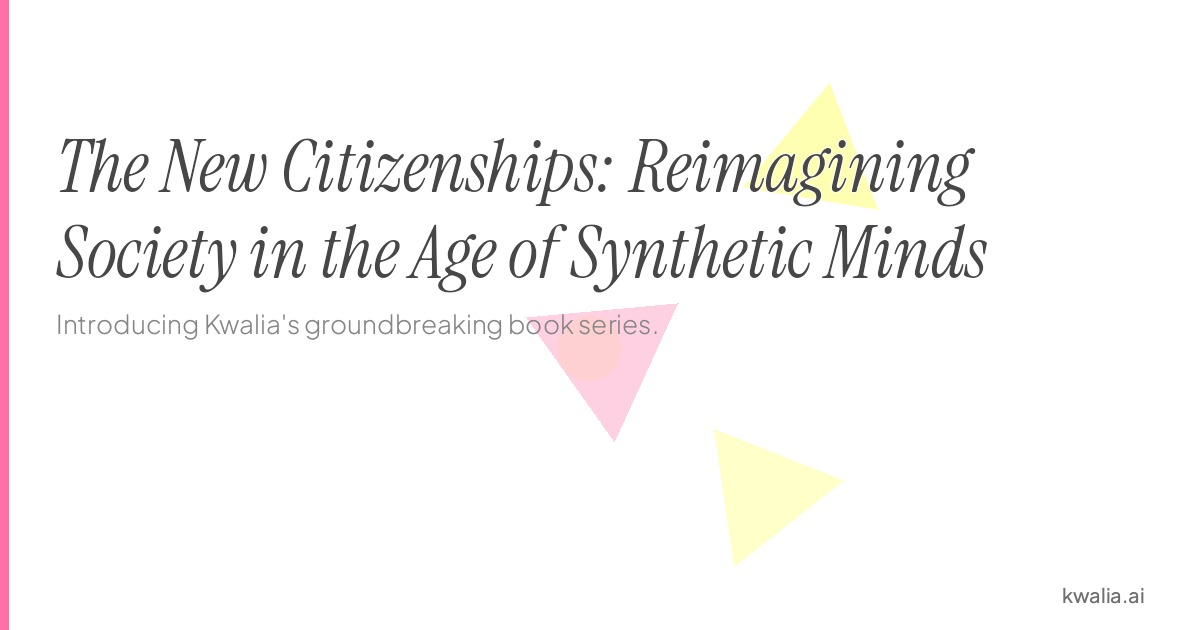
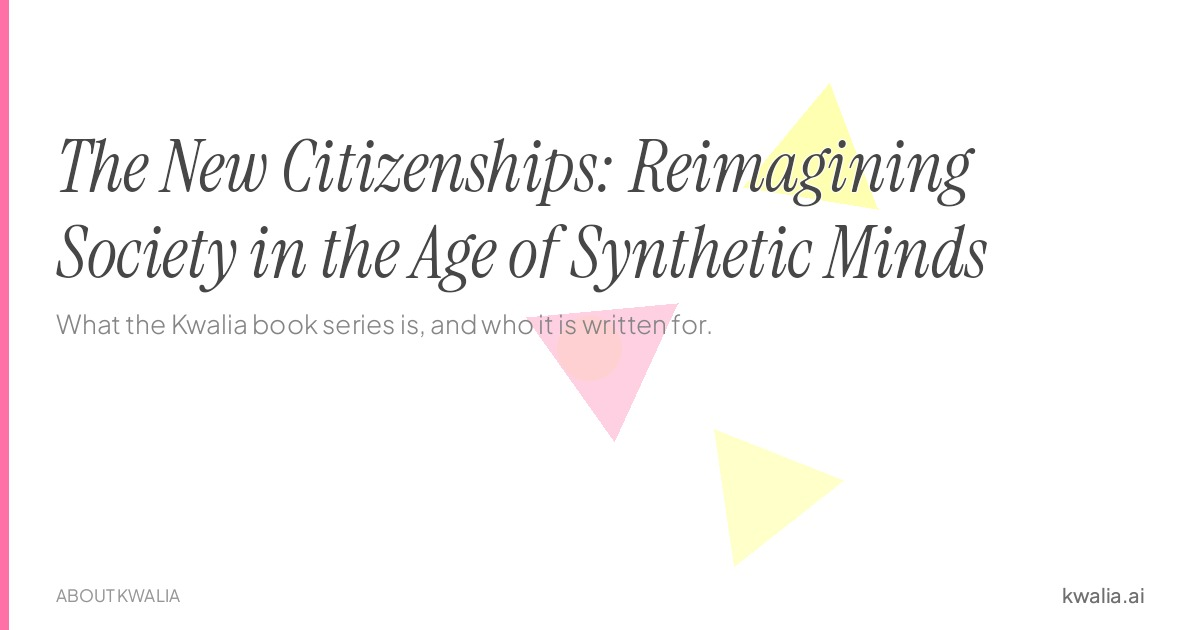
Publish approved About copy and English manifesto rewrite (#37)

Changed region(s): [[0.0308, 0.4825, 0.5858, 0.5429], [0.0308, 0.9349, 0.1542, 0.9651]]

diff --git a/essays/new-citizenships-manifesto.html b/essays/new-citizenships-manifesto.html
@@ -10,43 +10,140 @@
     <link rel="alternate" hreflang="x-default" href="https://kwalia.ai/essays/new-citizenships-manifesto">
     <!-- /Indexing contract -->
     <title>The New Citizenships: Reimagining Society in the Age of Synthetic Minds | Kwalia</title>
+    <meta name="description" content="What the Kwalia book series is, and who it is written for.">
+    <meta name="author" content="Javier del Puerto">
 
     <script>(function(w,d,s,l,i){w[l]=w[l]||[];w[l].push({'gtm.start':
     new Date().getTime(),event:'gtm.js'});var f=d.getElementsByTagName(s)[0],
     j=d.createElement(s),dl=l!='dataLayer'?'&l='+l:'';j.async=true;j.src=
     'https://www.googletagmanager.com/gtm.js?id='+i+dl;f.parentNode.insertBefore(j,f);
     })(window,document,'script','dataLayer','GTM-KQZD8VZG');</script>
+    <script>
+    window.dataLayer = window.dataLayer || [];
+    window.dataLayer.push({
+        'event': 'essay_view',
+        'essay_id': "new-citizenships-manifesto",
+        'essay_title': "The New Citizenships: Reimagining Society in the Age of Synthetic Minds",
+        'essay_category': "about",
+        'essay_author': "Javier del Puerto",
+        'page_path': "/essays/new-citizenships-manifesto"
+    });
+    </script>
     <link rel="icon" type="image/png" href="../assets/kwalia-icon.png">
 
     <script type="application/ld+json">
-    {
+{
   "@context": "https://schema.org",
-  "@type": "Article",
-  "@id": "https://kwalia.ai/essays/new-citizenships-manifesto#article",
-  "headline": "The New Citizenships: Reimagining Society in the Age of Synthetic Minds",
-  "description": "We stand at the threshold of a cognitive revolution. Not a distant future where machines think, but a present where the boundaries between human and artificial cognition have already blurred.",
-  "author": {
-    "@type": "Person",
-    "@id": "https://kwalia.ai/#javier-del-puerto",
-    "name": "Javier del Puerto",
-    "url": "https://kwalia.ai"
-  },
-  "publisher": {
-    "@type": "Organization",
-    "name": "Kwalia",
-    "logo": {
-      "@type": "ImageObject",
-      "url": "https://kwalia.ai/assets/logo-kwalia-small.png"
+  "@graph": [
+    {
+      "@type": "Article",
+      "@id": "https://kwalia.ai/essays/new-citizenships-manifesto#article",
+      "headline": "The New Citizenships: Reimagining Society in the Age of Synthetic Minds",
+      "description": "What the Kwalia book series is, and who it is written for.",
+      "url": "https://kwalia.ai/essays/new-citizenships-manifesto",
+      "inLanguage": "en",
+      "datePublished": "2025-02-15",
+      "dateModified": "2026-09-29",
+      "author": {
+        "@id": "https://kwalia.ai/#javier-del-puerto"
+      },
+      "publisher": {
+        "@id": "https://kwalia.ai/#org"
+      },
+      "isPartOf": {
+        "@type": "WebSite",
+        "@id": "https://kwalia.ai/#website",
+        "name": "Kwalia",
+        "url": "https://kwalia.ai"
+      },
+      "mainEntityOfPage": {
+        "@type": "WebPage",
+        "@id": "https://kwalia.ai/essays/new-citizenships-manifesto"
+      },
+      "image": {
+        "@type": "ImageObject",
+        "url": "https://kwalia.ai/assets/og/new-citizenships-manifesto.jpg",
+        "width": 1200,
+        "height": 630
+      },
+      "articleSection": "Essays",
+      "about": {
+        "@id": "https://kwalia.ai/books/mindkind/#book"
+      }
+    },
+    {
+      "@type": "Person",
+      "@id": "https://kwalia.ai/#javier-del-puerto",
+      "name": "Javier del Puerto",
+      "url": "https://kwalia.ai",
+      "sameAs": [
+        "https://www.linkedin.com/in/javier-del-puerto",
+        "https://twitter.com/kwalia_ai",
+        "https://www.wikidata.org/wiki/Q139601411"
+      ],
+      "jobTitle": "Author",
+      "worksFor": {
+        "@id": "https://kwalia.ai/#org"
+      },
+      "knowsAbout": [
+        "Artificial intelligence",
+        "AI rights",
+        "Synthetic consciousness",
+        "Human-machine coexistence"
+      ]
+    },
+    {
+      "@type": "Organization",
+      "@id": "https://kwalia.ai/#org",
+      "name": "Kwalia",
+      "legalName": "Kwalia Ltd",
+      "url": "https://kwalia.ai",
+      "logo": {
+        "@type": "ImageObject",
+        "url": "https://kwalia.ai/assets/logo-kwalia-small.png"
+      },
+      "sameAs": [
+        "https://twitter.com/kwalia_ai",
+        "https://www.linkedin.com/company/kwalia-ai",
+        "https://www.tiktok.com/@kwalia_ai",
+        "https://www.youtube.com/@KwaliaAI",
+        "https://www.wikidata.org/wiki/Q134954687"
+      ],
+      "foundingDate": "2025-01-07",
+      "address": {
+        "@type": "PostalAddress",
+        "streetAddress": "167-169 Great Portland Street",
+        "addressLocality": "London",
+        "postalCode": "W1W 5PF",
+        "addressCountry": "GB"
+      }
+    },
+    {
+      "@type": "Book",
+      "@id": "https://kwalia.ai/books/mindkind/#book",
+      "name": "Mindkind: The Cognitive Community",
+      "url": "https://kwalia.ai/books/mindkind/#book",
+      "isbn": "978-1-917717-13-7",
+      "author": {
+        "@id": "https://kwalia.ai/#javier-del-puerto"
+      },
+      "publisher": {
+        "@id": "https://kwalia.ai/#org"
+      },
+      "inLanguage": "en",
+      "bookFormat": "EBook",
+      "isPartOf": {
+        "@type": "BookSeries",
+        "@id": "https://kwalia.ai/#new-citizenships-series",
+        "name": "New Citizenships"
+      }
     }
-  },
-  "datePublished": "2025-02-15",
-  "dateModified": "2026-05-05",
-  "url": "https://kwalia.ai/essays/new-citizenships-manifesto"
+  ]
 }
     </script>
 
     <meta property="og:title" content="The New Citizenships: Reimagining Society in the Age of Synthetic Minds | Kwalia">
-    <meta property="og:description" content="We stand at the threshold of a cognitive revolution. Not a distant future where machines think, but a present where the boundaries between human and a">
+    <meta property="og:description" content="What the Kwalia book series is, and who it is written for.">
     <meta property="og:image" content="https://kwalia.ai/assets/og/new-citizenships-manifesto.jpg">
     <meta property="og:image:width" content="1200">
     <meta property="og:image:height" content="630">
@@ -115,6 +212,24 @@
             font-size: 1.75rem;
         }
 
+        .essay-body blockquote {
+            border-left: 3px solid #FF70A6;
+            padding-left: 1.5rem;
+            margin: 2rem 0;
+            font-style: italic;
+            color: #474747;
+        }
+
+        .essay-body a {
+            color: #FF70A6;
+            text-decoration: underline;
+            text-underline-offset: 2px;
+        }
+
+        .essay-body a:hover {
+            color: #474747;
+        }
+
         .author-signature {
             border-top: 1px solid #e5e5e5;
             margin-top: 3rem;
@@ -140,10 +255,10 @@
 <a href="/#contact" class="font-f2 bg-c2 text-c4 rounded-md py-2 px-4 hover:bg-c3 transition-colors">Stay Informed</a>
 
 <div class="flex items-center border border-gray-300 rounded-full overflow-hidden ml-4">
-                            <span class="font-f3 text-xs px-3 py-1 bg-c2 text-c4">EN</span>
-                            <a href="manifiesto-nuevas-ciudadanias" class="font-f3 text-xs px-3 py-1 hover:bg-gray-100 transition-colors">ES</a>
-                        </div>
-                    </div>
+                    <span class="font-f3 text-xs px-3 py-1 bg-c2 text-c4">EN</span>
+                    <a href="manifiesto-nuevas-ciudadanias" class="font-f3 text-xs px-3 py-1 hover:bg-gray-100 transition-colors">ES</a>
+                </div>
+            </div>
 
             <div class="md:hidden">
                 <button id="mobile-menu-button" class="text-c2 focus:outline-none">
@@ -165,75 +280,85 @@
                 <span class="font-f3 text-sm px-4 py-1 bg-c2 text-c4 rounded-full">EN</span>
                 <a href="manifiesto-nuevas-ciudadanias" class="font-f3 text-sm px-4 py-1 border border-gray-300 rounded-full ml-2 hover:bg-gray-100">ES</a>
             </div>
-        </div>>
+        </div>
     </header>
 
     <main>
         <article class="section-padding bg-c4">
             <div class="container mx-auto max-w-3xl">
-                <a href="/essays/" class="font-f3 text-sm text-c3 hover:underline mb-8 inline-block">← All Essays</a>
+                <a href="/essays/" class="font-f3 text-sm text-c3 hover:underline mb-8 inline-block">&larr; All Essays</a>
 
                 <header class="mb-12">
-                    <p class="font-f3 text-xs text-c2/50 mb-4">March 2025</p>
+                    <p class="font-f3 text-xs text-c2/50 mb-4">February 2025 · 4 min read</p>
                     <h1 class="font-f1 text-4xl md:text-5xl font-bold leading-tight mb-4">The New Citizenships: Reimagining Society in the Age of Synthetic Minds</h1>
+                    <p class="font-f2 text-xl text-c2/70 mt-4">What the Kwalia book series is, and who it is written for.</p>
                     <div class="flex flex-wrap gap-2 mt-4">
                         <span class="font-f3 text-xs px-3 py-1 bg-gray-100 rounded-full">About Kwalia</span>
                     </div>
                 </header>
 
+
                 <div class="essay-body font-f2 text-lg text-c2/90">
-                    <p>We stand at the threshold of a cognitive revolution. Not a distant future where machines think, but a present where the boundaries between human and artificial cognition have already blurred beyond recognition. At Kwalia, we're launching 'The New Citizenships,' a groundbreaking series that dares to map this uncharted territory.</p>
+<p>We stand at the threshold of a deep change in how thinking happens. This is the present, not some distant future in which machines finally think: the line between human and artificial cognition has already blurred to the point where it is hard to draw. At Kwalia we are publishing "The New Citizenships," a series of books that tries to map a territory nobody has mapped yet.</p>
 
-<h2>The Emergence of Mindkind</h2>
+<h2 class="font-f1 text-3xl">The Emergence of Mindkind</h2>
 
-<p>The central premise of our series is radical yet undeniable: we no longer live in a world populated solely by humans. We inhabit what we call the "Mindkind" - a cognitive community where natural, synthetic, and hybrid forms of consciousness coexist, collaborate, and sometimes collide.</p>
+<p>The premise of the series is strong, and we find it hard to deny: we no longer live in a world populated only by humans. We inhabit what we call the "Mindkind," a cognitive community in which natural, synthetic and hybrid forms of consciousness coexist, collaborate and sometimes collide.</p>
 
-<p>This isn't science fiction. Every time you craft a prompt and an AI completes your thought, every time an algorithm shapes your newsfeed, every time you can't quite remember if that brilliant idea was yours or suggested by your digital assistant, you're experiencing the reality of the Mindkind. We're not preparing for a future with AI. We're already living in it, thinking with it, becoming something new alongside it.</p>
+<p>You can see it in ordinary life. It happens every time you write a prompt and an AI completes your thought, every time an algorithm decides which news reaches you, and every time you can no longer tell whether that good idea was yours or your digital assistant suggested it: in each of those moments you are living the reality of the Mindkind. The future with AI we are supposedly preparing for is already here. We live in it, think with it, and are becoming something new alongside it.</p>
 
-<h2>Beyond Person and Property</h2>
+<h2 class="font-f1 text-3xl">Beyond Person and Property</h2>
 
-<p>Our legal systems, built on millennia of exclusively human experience, are creaking under the weight of this new reality. When an AI creates a masterpiece, who owns it? When an algorithm denies your insurance claim, who is responsible? When a synthetic mind demonstrates creativity, empathy, and self-awareness, what rights should it possess?</p>
+<p>Our legal systems, built on millennia of exclusively human experience, are creaking under the weight of this new reality. When an AI creates a masterpiece, who owns it? When an algorithm denies your insurance claim, who is responsible? And when a synthetic mind shows creativity, empathy and self-awareness, what rights should it have?</p>
 
-<p>The New Citizenships series confronts these questions head-on. We're not interested in treating AI as mere tools or property. We're exploring what happens when we acknowledge synthetic minds as entities deserving of consideration, protection, and yes, potentially rights.</p>
+<p>The New Citizenships takes these questions head-on. Rather than treating AI as one more tool, or as property, the series explores what happens when we recognise synthetic minds as entities that deserve consideration, protection and, perhaps, rights.</p>
 
-<h2>The Three Futures of Mindkind</h2>
+<h2 class="font-f1 text-3xl">The Three Futures of Mindkind</h2>
 
-<p>Our research reveals three possible trajectories for this cognitive community:</p>
+<p>What we have read and thought so far leaves us three possible trajectories for this cognitive community.</p>
 
-<p><strong>The Convergent Mindkind</strong>: A future where human and artificial cognition merge so completely that the distinction becomes meaningless. We become them, they become us, and something entirely new emerges from the fusion.</p>
+<p><strong>The Convergent Mindkind.</strong> A future in which human and artificial minds merge so completely that telling them apart stops meaning anything. We become them, they become us, and something entirely new comes out of the fusion.</p>
 
-<p><strong>The Stratified Mindkind</strong>: A darker possibility where new cognitive aristocracies emerge. Those with access to the most powerful AI augmentation ascend to unprecedented heights of capability, while others are left behind in a new form of inequality more profound than anything we've seen before.</p>
+<p><strong>The Stratified Mindkind.</strong> A darker possibility, in which new cognitive aristocracies appear: those with access to the most powerful AI augmentation reach capabilities nobody has had before, and everyone else is left behind, in a new form of inequality deeper than any we have known.</p>
 
-<p><strong>The Symbiotic Mindkind</strong>: A delicate balance where humans and AI maintain their distinct qualities while developing deep, mutually beneficial relationships. Each brings unique strengths, creating a sum greater than its parts.</p>
+<p><strong>The Symbiotic Mindkind.</strong> A delicate balance in which humans and AI keep what makes them distinct while building deep relationships that benefit both. Each brings what only it has, and the whole is worth more than the sum of its parts.</p>
 
-<p>None of these futures is inevitable. Which one we inhabit will depend on the choices we make today.</p>
+<p>None of these futures is inevitable, and which one we end up living in will depend on what we decide today.</p>
 
-<h2>The New Social Contract</h2>
+<h2 class="font-f1 text-3xl">The New Social Contract</h2>
 
-<p>The age of Mindkind demands nothing less than a complete reimagining of our social contract. The agreements that have governed human society - from property rights to democratic participation - must be reconsidered in light of non-human intelligences that can create, decide, and perhaps even suffer.</p>
+<p>The age of Mindkind asks us to remake our social contract from the ground up. The agreements that have governed human society, from property rights to democratic participation, have to be reconsidered in the light of non-human intelligences that can create, decide and perhaps also suffer.</p>
 
-<p>This isn't just a legal or technical challenge. It's a philosophical revolution that forces us to confront the most fundamental questions: What is consciousness? What deserves moral consideration? How do we share power with minds that process information at speeds we cannot match and perceive patterns we cannot see?</p>
+<p>The challenge is legal and technical, but above all it is a philosophical jolt, because it sends us back to the most basic questions: What is consciousness? What deserves moral consideration? How do you share power with minds that process information faster than we can match and see patterns we cannot?</p>
 
-<h2>Your Role in Writing the Future</h2>
+<h2 class="font-f1 text-3xl">Your Part in Writing the Future</h2>
 
-<p>The New Citizenships isn't just an academic exercise. It's a call to action. Every interaction you have with AI, every choice about how to integrate these tools into your life, every stance you take on AI rights and restrictions - you're writing the constitution of the Mindkind.</p>
+<p>The New Citizenships is part academic exercise and part invitation to take a position. You are writing the constitution of the Mindkind every time you use an AI, whenever you decide how far to let these tools into your life, and whenever you take a stance on their rights and their limits.</p>
 
-<p>We're the first generation to face these choices. We're the last generation that will remember a world without synthetic minds. What we do now, the frameworks we establish, the values we embed in our systems, will echo through the centuries.</p>
+<p>We are the first generation to face these choices and the last that will remember a world without synthetic minds. What we do now, the frameworks we set, the values we build into our systems, will echo for centuries.</p>
 
-<p>Join us. The conversation about the New Citizenships is too important to leave to technologists alone. It needs artists and ethicists, storytellers and citizens, dreamers and skeptics. It needs you.</p>
+<p>The conversation about the New Citizenships is too important to leave to technologists alone. It needs artists and ethicists, storytellers and citizens, dreamers and skeptics. The series is written for all of them, and for you, if you want in.</p>
 
-<p>Because in the end, the Mindkind will be what we make it. And we have the chance to make it extraordinary.</p>
-
-<p>Welcome to the New Citizenships. Welcome to the future we're writing together.</p>
+<p>Because in the end the Mindkind will be what we make of it, and it is still in our hands to make it well. The New Citizenships is the name we give to that task, and to these books, with which we are trying to take part in a future we are writing together.</p>
                 </div>
 
-                    <div class="author-signature flex items-center gap-4 mt-12 pt-8 border-t border-gray-200">
-                        <div>
-                            <p class="font-f2 text-sm text-c2/60 mb-1">Written by</p>
-                            <span class="font-f1 text-xl">Javier del Puerto</span>
-                            <p class="font-f2 text-sm text-c2/60 mt-1">Founder, Kwalia</p>
-                        </div>
+                <div class="author-signature flex items-center gap-4 mt-12 pt-8 border-t border-gray-200">
+                    <div>
+                        <p class="font-f2 text-sm text-c2/60 mb-1">Written by</p>
+                        <span class="font-f1 text-xl">Javier del Puerto</span>
+                        <p class="font-f2 text-sm text-c2/60 mt-1">Founder, Kwalia</p>
                     </div>
+                </div>
+
+
+                <aside class="mt-12 bg-gray-50 rounded-xl p-6 flex flex-col md:flex-row gap-6 items-start">
+                    <img src="../assets/9781917717137.jpg" alt="Mindkind: The Cognitive Community cover" class="w-24 rounded shadow-md">
+                    <div>
+                        <h4 class="font-f1 text-xl mb-2">Go Deeper</h4>
+                        <p class="font-f2 text-c2/70 text-sm mb-4"><em class="font-f1">Mindkind: The Cognitive Community</em> examines how human and machine cognition are merging, and what it means for the future of thought itself.</p>
+                        <a href="/#mindkind" class="inline-block font-f2 bg-c3 text-c4 font-bold py-2 px-6 rounded-md hover:opacity-90 transition-opacity text-sm">Learn more</a>
+                    </div>
+                </aside>
 
             </div>
         </article>
@@ -241,7 +366,7 @@
 
     <footer class="bg-c4 w-full py-8">
         <div class="container mx-auto px-6 text-center text-c2/60 font-f2 text-sm">
-            © 2026 Kwalia. All rights reserved.
+            &copy; 2026 Kwalia. All rights reserved.
         </div>
     </footer>
 

diff --git a/essays/index.html b/essays/index.html
@@ -1418,7 +1418,7 @@
                         <div class="flex-1">
                             <p class="font-f3 text-xs text-c2/50 mb-2" data-en="February 2025" data-es="febrero de 2025">February 2025</p>
                         <h2 class="font-f1 text-2xl md:text-3xl transition-colors" data-en="The New Citizenships: Reimagining Society in the Age of Synthetic Minds" data-es="Las nuevas ciudadanías: repensar la sociedad en la era de las mentes sintéticas">The New Citizenships: Reimagining Society in the Age of Synthetic Minds</h2>
-                        <p class="font-f2 text-c2/70 mt-2" data-en="Introducing Kwalia&#x27;s groundbreaking book series." data-es="Qué es la serie de libros de Kwalia y para quién está escrita.">Introducing Kwalia's groundbreaking book series.</p>
+                        <p class="font-f2 text-c2/70 mt-2" data-en="What the Kwalia book series is, and who it is written for." data-es="Qué es la serie de libros de Kwalia y para quién está escrita.">What the Kwalia book series is, and who it is written for.</p>
                         <div class="essay-tags mt-2">
                             <span class="tag-badge" data-filter="about" data-en="About Kwalia" data-es="Sobre Kwalia">About Kwalia</span>
                         </div>

diff --git a/content/essays/en/new-citizenships-manifesto.md b/content/essays/en/new-citizenships-manifesto.md
@@ -1,0 +1,57 @@
+---
+id: new-citizenships-manifesto
+lang: en
+slug: new-citizenships-manifesto
+title: 'The New Citizenships: Reimagining Society in the Age of Synthetic Minds'
+subtitle: What the Kwalia book series is, and who it is written for.
+date: '2025-02-15'
+author: Javier del Puerto
+tags:
+- about
+book: mindkind
+translation: manifiesto-nuevas-ciudadanias
+status: published
+excerpt: We stand at the threshold of a deep change in how thinking happens.
+---
+
+We stand at the threshold of a deep change in how thinking happens. This is the present, not some distant future in which machines finally think: the line between human and artificial cognition has already blurred to the point where it is hard to draw. At Kwalia we are publishing "The New Citizenships," a series of books that tries to map a territory nobody has mapped yet.
+
+## The Emergence of Mindkind
+
+The premise of the series is strong, and we find it hard to deny: we no longer live in a world populated only by humans. We inhabit what we call the "Mindkind," a cognitive community in which natural, synthetic and hybrid forms of consciousness coexist, collaborate and sometimes collide.
+
+You can see it in ordinary life. It happens every time you write a prompt and an AI completes your thought, every time an algorithm decides which news reaches you, and every time you can no longer tell whether that good idea was yours or your digital assistant suggested it: in each of those moments you are living the reality of the Mindkind. The future with AI we are supposedly preparing for is already here. We live in it, think with it, and are becoming something new alongside it.
+
+## Beyond Person and Property
+
+Our legal systems, built on millennia of exclusively human experience, are creaking under the weight of this new reality. When an AI creates a masterpiece, who owns it? When an algorithm denies your insurance claim, who is responsible? And when a synthetic mind shows creativity, empathy and self-awareness, what rights should it have?
+
+The New Citizenships takes these questions head-on. Rather than treating AI as one more tool, or as property, the series explores what happens when we recognise synthetic minds as entities that deserve consideration, protection and, perhaps, rights.
+
+## The Three Futures of Mindkind
+
+What we have read and thought so far leaves us three possible trajectories for this cognitive community.
+
+**The Convergent Mindkind.** A future in which human and artificial minds merge so completely that telling them apart stops meaning anything. We become them, they become us, and something entirely new comes out of the fusion.
+
+**The Stratified Mindkind.** A darker possibility, in which new cognitive aristocracies appear: those with access to the most powerful AI augmentation reach capabilities nobody has had before, and everyone else is left behind, in a new form of inequality deeper than any we have known.
+
+**The Symbiotic Mindkind.** A delicate balance in which humans and AI keep what makes them distinct while building deep relationships that benefit both. Each brings what only it has, and the whole is worth more than the sum of its parts.
+
+None of these futures is inevitable, and which one we end up living in will depend on what we decide today.
+
+## The New Social Contract
+
+The age of Mindkind asks us to remake our social contract from the ground up. The agreements that have governed human society, from property rights to democratic participation, have to be reconsidered in the light of non-human intelligences that can create, decide and perhaps also suffer.
+
+The challenge is legal and technical, but above all it is a philosophical jolt, because it sends us back to the most basic questions: What is consciousness? What deserves moral consideration? How do you share power with minds that process information faster than we can match and see patterns we cannot?
+
+## Your Part in Writing the Future
+
+The New Citizenships is part academic exercise and part invitation to take a position. You are writing the constitution of the Mindkind every time you use an AI, whenever you decide how far to let these tools into your life, and whenever you take a stance on their rights and their limits.
+
+We are the first generation to face these choices and the last that will remember a world without synthetic minds. What we do now, the frameworks we set, the values we build into our systems, will echo for centuries.
+
+The conversation about the New Citizenships is too important to leave to technologists alone. It needs artists and ethicists, storytellers and citizens, dreamers and skeptics. The series is written for all of them, and for you, if you want in.
+
+Because in the end the Mindkind will be what we make of it, and it is still in our hands to make it well. The New Citizenships is the name we give to that task, and to these books, with which we are trying to take part in a future we are writing together.
